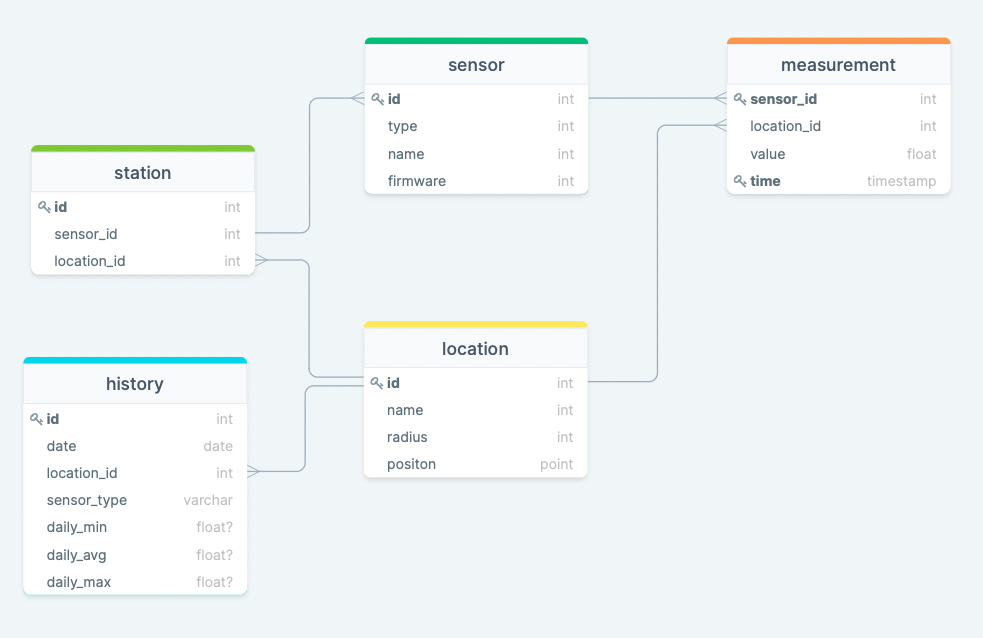
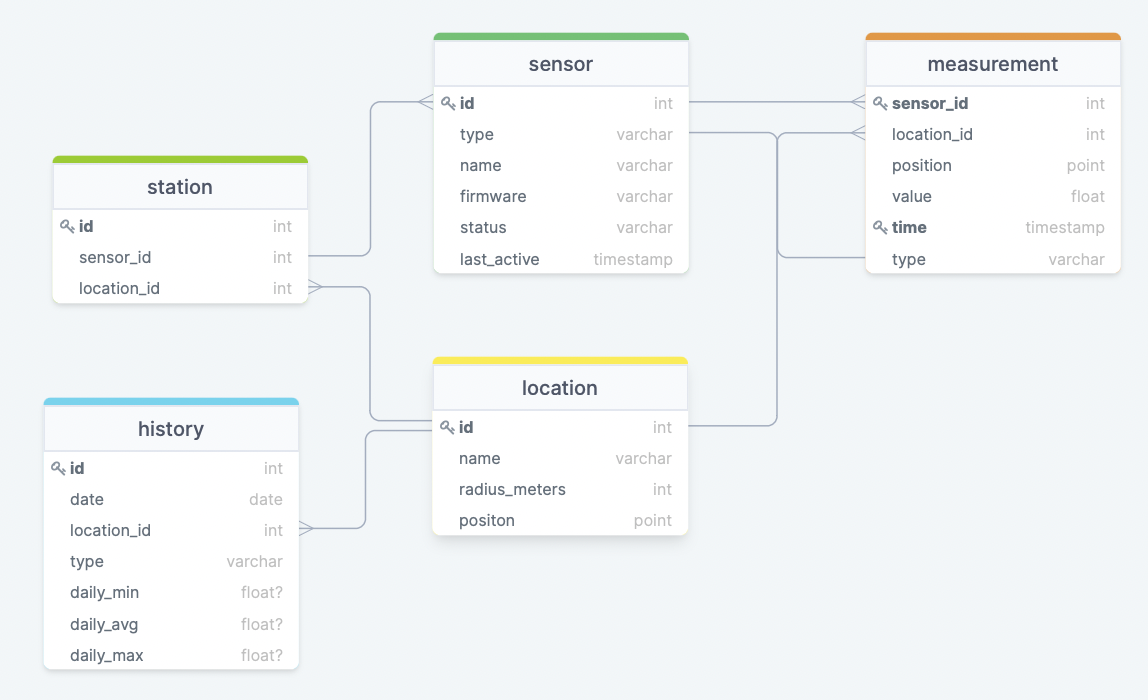
update documentation

diff --git a/docs/README.md b/docs/README.md
@@ -7,49 +7,33 @@ In order to follow along, keep the database model below in mind:
 
 ![database model](db-model.png)
 
-### Start off with creating a new location where you will place the sensor station
+**Terminology:**
 
-The first thing you need to do is to create a new location. This is done by making a POST request to the `/locations`
-endpoint. In this example, I will create a new location for `Gräsvik`.
+- sensor - a module that is measuring a specific parameter, e.g. a thermometer measuring temperature
+- station - a collection of sensors combined into a box with a GPS and a driver which controls the sensors
+- measurement - a single reading of a sensor
+- history - a summary of the measurements taken by a sensor. this table is updated automatically at midnight every day
+- location - a named position with geo-coordinates and a given radius. When measurements are taken, the location is
+  checked to see if the measurement is within the radius of any existing location. Otherwise, a new location is created
+  that can be manually named later.
 
-```sh
-POST: /api/<api_version>/locations
-JSON BODY:
-{
-	"location_name": "Trossö",
-	"lat": 56.160820,
-	"long": 15.586710,
-	"rad": 1000
-}
-
-Using curl (assuming running the application locally):
-$ curl --request POST \
-  --url http://localhost:3000/api/<api_version>/locations \
-  --header 'Content-Type: application/json' \
-  --data '{
-	"location_name": "Trossö",
-	"lat": 56.160820,
-	"long": 15.586710,
-	"rad": 1000
-}'
-```
-
-The endpoint returns the id of the location (lets assume it returned `1`). You will need this later when linking your
-sensor station to this location.
+## Setting up your sensor
 
 ### Register your sensors
 
 The sensors are the individual devices that will be used to collect data of a certain type, for example a thermometer.
-The following POST request to the `/sensors` endpoint will create a new sensor, which I will name `rkz1000` (perhaps its
-model number) and it runs firmware `1.3.1`
+The following POST request to the `/sensors` endpoint will create a new `temperature` sensor, which I will
+name `rkz1000` (perhaps its model number) and it runs firmware `1.3.1`.
+
+*Note: The meta-data `name` and `firmware` are not mandatory and can be left out and updated later*
 
 ```sh
 POST: /api/<api_version>/sensors
 JSON BODY:
 {
-    "sensor_name": "rkz1000",
-    "firmware": "1.3.1",
-    "location_id": 1
+    "type": "temperature",
+    "name": "rkz1000",
+    "firmware": "1.3.1"
 }
 
 Using curl (again, assuming running the application locally):
@@ -63,10 +47,46 @@ $ curl --request POST \
 }'
 ```
 
-The endpoint returns the id (lets assume it returned `1`) of the sensor. You will need this in the next step when
-linking the sensor to a station.
+The endpoint returns the id (lets assume it returned `1`) of the sensor. You will need this later if you want to link a
+sensor to a station.
 
-### Link your sensors to your location with a sensor station
+### Create a new location where you will place the sensor station \<optional>
+
+*Note: You could just start uploading measurements from your sensor as it is, in which case the location will be created
+automatically.*
+
+In order to create a location, send a POST request to the `/locations`
+endpoint. In this example, I will create a new location for `Gräsvik`.
+
+```sh
+POST: /api/<api_version>/locations
+JSON BODY:
+{
+	"location_name": "Gräsvik",
+	"lat": 56.182421,
+	"long": 15.589274,
+	"rad": 1000
+}
+
+Using curl (assuming running the application locally):
+$ curl --request POST \
+  --url http://localhost:3000/api/<api_version>/locations \
+  --header 'Content-Type: application/json' \
+  --data '{
+	"location_name": "Gräsvik",
+	"lat": 56.182421,
+	"long": 15.589274,
+	"rad": 1000
+}'
+```
+
+The endpoint returns the id of the location (lets assume it returned `1`). You will need this later if you would like to
+link a sensor station to this location.
+
+### Link your sensors to your location with a sensor station \<optional>
+
+*Note: By not linking your sensors to a station some API queries will not function properly, and your sensors may not be
+included in certain queries. It is therefore recommended performing this step.*
 
 A sensor station is a collection of sensors that are placed in a location. The following POST request will create a new
 station with the sensor we just created. I will also place the station in the location we created earlier.
@@ -91,17 +111,37 @@ $ curl --request POST \
 }'
 ```
 
+Now everything is set up, and we can start collecting data.
+
+## Collecting data
+
+*Note: all the previous steps are one-time-setups and can be done remotely using e.g. Curl. The following should only be
+done using proper sensors to ensure the data displayed is accurate.*
+
 ### Upload measurements
 
 Now that we have a sensor station, we can upload measurements from it. The following POST request will upload a
 measurement of `23.5°C`.
+
+No need to supply the type of measurement since this is already registered.
+
+The location provided will be linked to the closest location in the database. If no location is found within their
+respective radius', a new Location will be created. This functionality is especially useful if you have your sensors
+placed on a boat and are moving around. It is recommended to go and update the name of the automatically created
+locations afterwards so that the frontend works properly.
+
+If you uploaded the `Gräsvik` location, your measurement will be linked to that location as long as the distance is less
+than the radius we provided, 1000m.
 
 ```sh
 POST: /api/<api_version>/measurements
 JSON BODY:
 {
     "timestamp": "2022-04-08T14:08:54+02",
-    "location_id": 1,
+    "location": {
+      "lat": 56.182421,
+      "long": 15.589274
+    },
     "sensors": [
         { "sensor_id": 1, "value": 23.5, "unit": "c" }
     ]
@@ -109,11 +149,14 @@ JSON BODY:
 
 Using curl (again, assuming running the application locally):
 $ curl --request POST \
-  --url http://localhost:3000/api/v2/measurements \
+  --url http://localhost:3000/api/<api_version>/measurements \
   --header 'Content-Type: application/json' \
   --data '{
 	"timestamp": "2022-04-08T14:08:54+02",
-	"location_id": 1,
+	"location": {
+      "lat": 56.182421,
+      "long": 15.589274
+    },
 	"sensors": [
 		{"sensor_id": 1, "value": 23.5, "unit": "c"}
 	]
@@ -127,7 +170,10 @@ solids, just specify multiple sensors in the `sensors` field:
 ```json
 {
   "timestamp": "2022-04-08T14:08:54+02",
-  "location_id": 1,
+  "location": {
+    "lat": 56.182421,
+    "long": 15.589274
+  },
   "sensors": [
     {
       "sensor_id": 1,
@@ -142,3 +188,25 @@ solids, just specify multiple sensors in the `sensors` field:
   ]
 }
 ```
+
+### Monitoring the sensors statuses
+
+You can see the status of each sensor using the `/sensors/status` endpoint. For example, if you forgot to
+specify `"unit": "c"`, the API would interpret the measurement as `23.5 K` and the measurement would not be allowed
+since this is an unreasonable temperature value. The status of the sensor would then be updated to `too_low` a query to
+the API would return something like this:
+
+```sh 
+GET: /api/<api_version>/sensors/status
+
+Response: [
+  {"id": 1, "type": "temperature", "status": "too_low", "last_active": "2022-04-08T12:08:54.000Z"},
+  {"id": 2, "type": "conductivity", "status": "ok", "last_active": "2022-04-08T12:08:54.000Z"}
+]
+```
+
+If the status is ``ok``, the sensor is operating normally in the sense that its measurements are being accepted by the
+API. If the measurements are being declined, an appropriate status is displayed, e.g:
+
+- `too_low`, `too_high` - the sensor is sending measurements out of the accepted range.
+- `ER_DUP_ENTRY` - the sensor is sending a measurement with a timestamp that is already in the database
